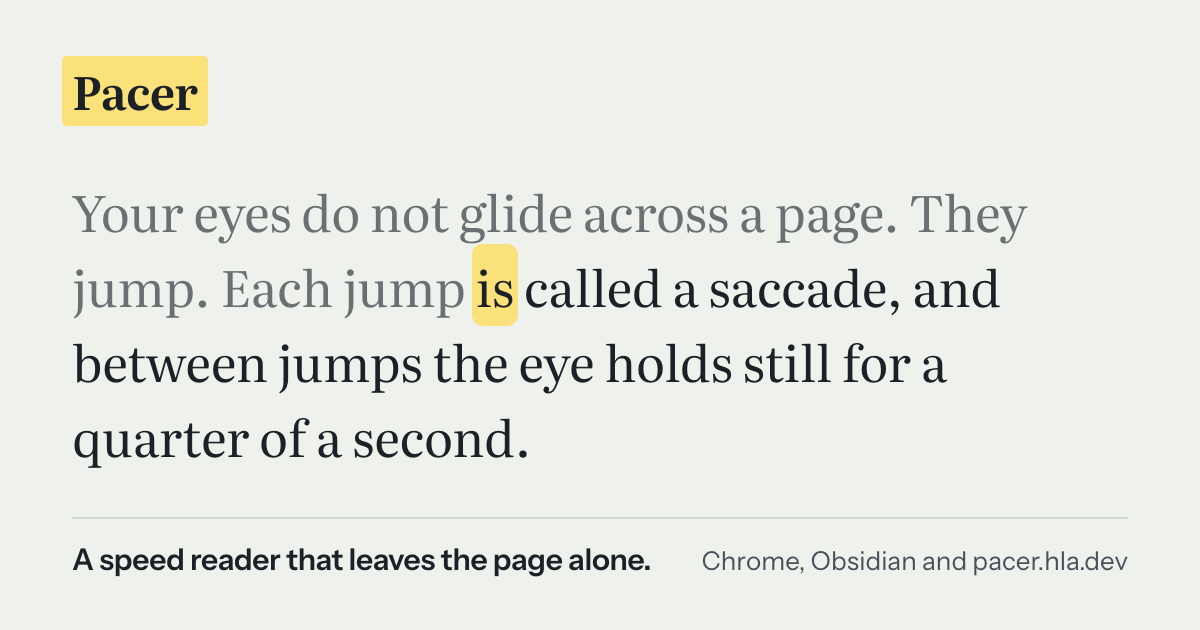
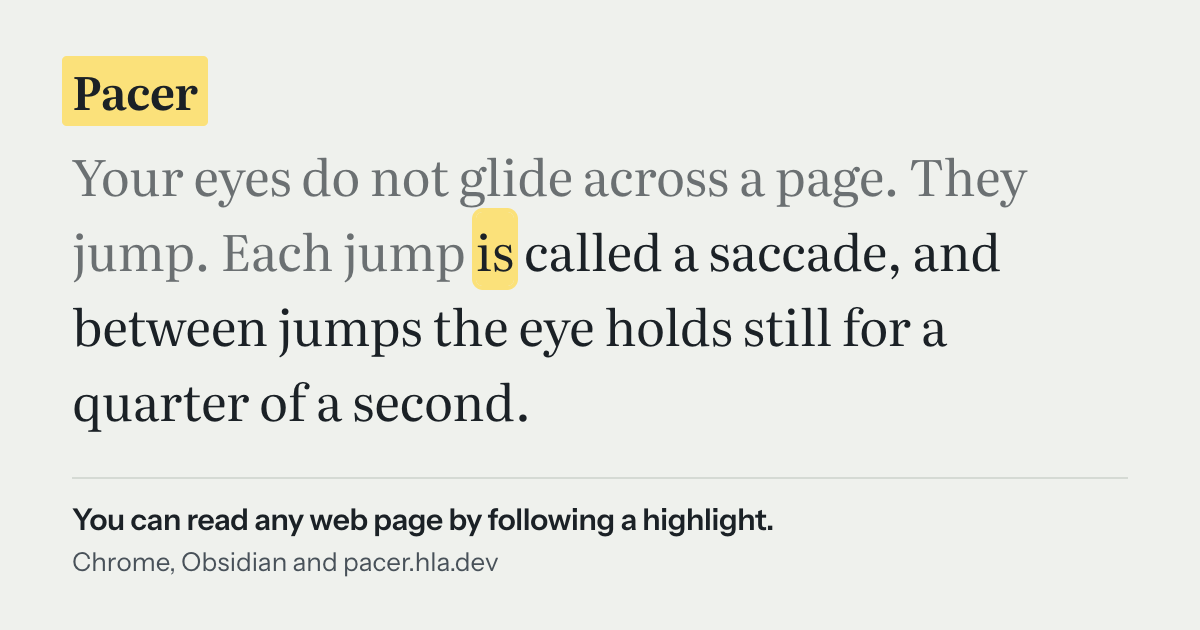
fix: web; replaced the og.png tagline with the plain "you can" line and stacked its footer

diff --git a/e2e-tests/store/cards.html b/e2e-tests/store/cards.html
@@ -22,7 +22,7 @@ body[data-card="og"] #og, body[data-card="tile"] #tile, body[data-card="marquee"
 #og { width: 1200px; height: 630px; padding: 56px 72px 52px; flex-direction: column; }
 #og .mark { font-size: 46px; align-self: flex-start; margin-left: -0.22em; }
 #og .passage { margin-top: auto; font-size: 50px; line-height: 1.5; letter-spacing: -0.005em; }
-#og .foot { margin-top: 44px; display: flex; align-items: baseline; justify-content: space-between; border-top: 2px solid var(--rule); padding-top: 22px; }
+#og .foot { margin-top: 40px; display: flex; flex-direction: column; gap: 8px; border-top: 2px solid var(--rule); padding-top: 22px; }
 #og .tag { font-size: 30px; font-weight: 600; color: var(--ink); letter-spacing: -0.01em; }
 #og .where { font-size: 26px; color: var(--ink-soft); }
 
@@ -43,7 +43,7 @@ body[data-card="og"] #og, body[data-card="tile"] #tile, body[data-card="marquee"
   <div class="mark">Pacer</div>
   <p class="passage"><span class="read">Your eyes do not glide across a page. They jump. Each jump</span> <span class="now">is</span> called a saccade, and between jumps the eye holds still for a quarter of a second.</p>
   <div class="foot ui">
-    <span class="tag">A speed reader that leaves the page alone.</span>
+    <span class="tag">You can read any web page by following a highlight.</span>
     <span class="where">Chrome, Obsidian and pacer.hla.dev</span>
   </div>
 </section>
